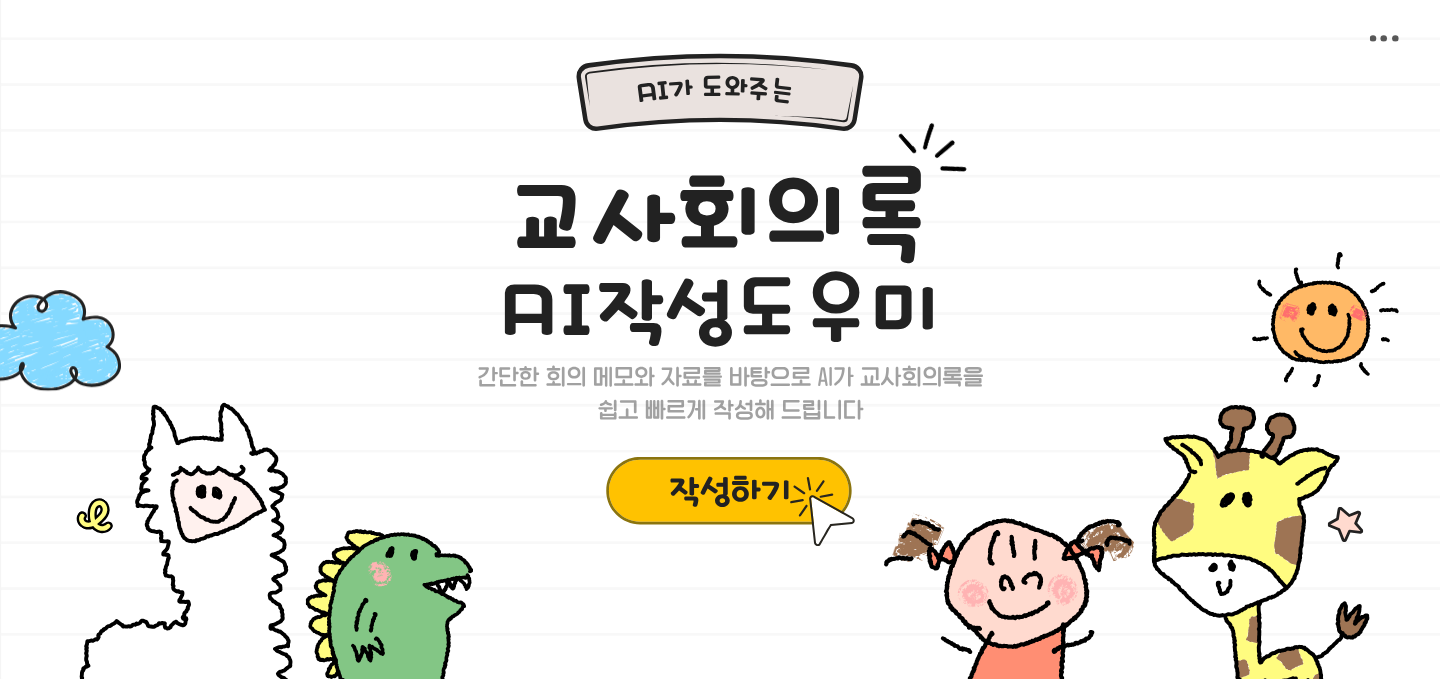
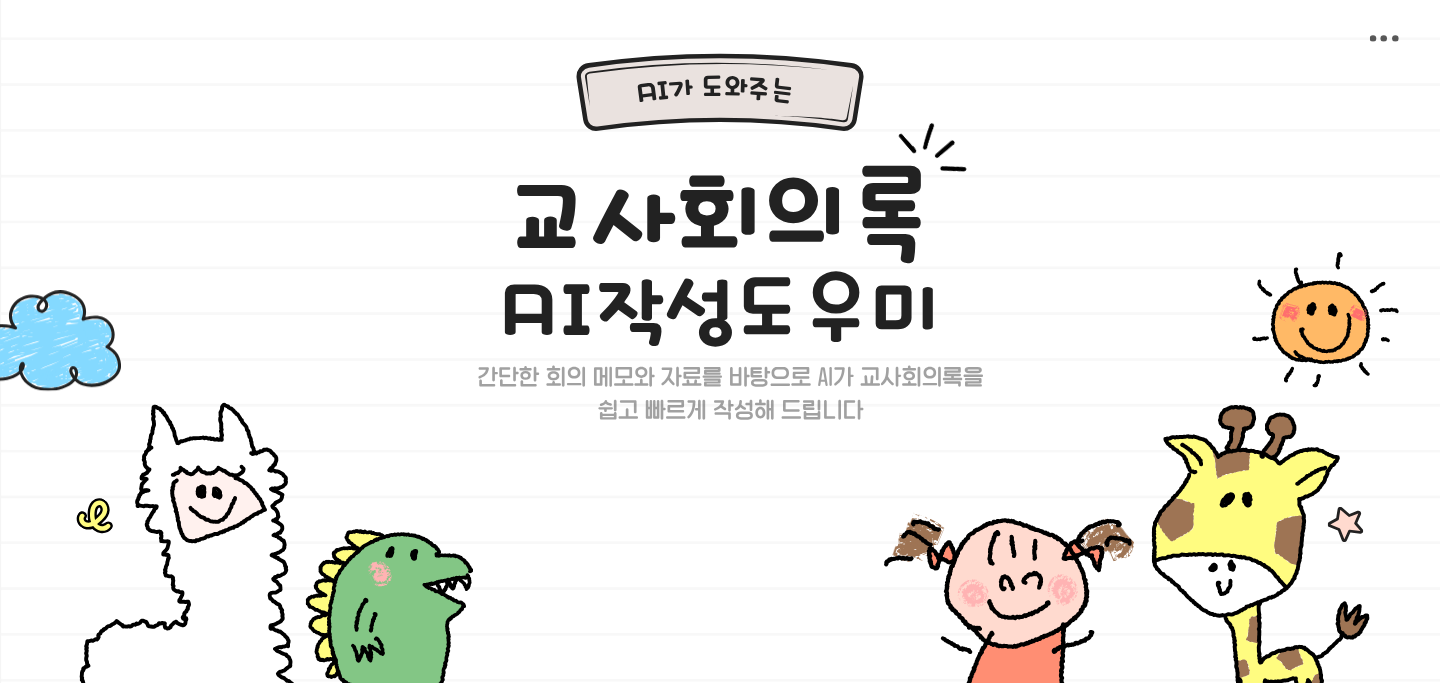
새 hero.png 적용 및 실제 교사회의록 작성하기 버튼 추가
- 버튼이 제거된 새 hero.png(1440×683) 원본 그대로 교체
- 설명문 아래 기존 버튼 자리(중앙, top 84%)에 실제 HTML pill 버튼 추가 — 코랄 배경, 흰색 굵은 글씨, /app 이동
- 화면에 버튼 1개만 표시, 기존 여백 없는 전체 폭 구조와 /app 기능 유지

diff --git a/src/Landing.css b/src/Landing.css
@@ -1,7 +1,7 @@
 /* ============================================================
    랜딩페이지 — hero.png 원본을 화면 끝까지 채우는 구조.
    바깥 여백 없음 / max-width 없음 / border-radius 없음.
-   이미지 속 노란 '작성하기' 버튼 위에 투명 클릭 영역만 오버레이.
+   설명문 아래 중앙에 실제 HTML 버튼 표시.
    ============================================================ */
 
 .landing-hero {
@@ -28,23 +28,69 @@
   -webkit-user-drag: none;
 }
 
-/* ---------- 투명 클릭 영역 ----------
-   hero.png (1440×679)에서 측정한 노란 pill 버튼 위치:
-   x 39.0–62.3% (중앙), y 79.4–98.2% — 이미지 크기에 %로 함께 이동 */
-.landing-cta-zone {
+/* ---------- 실제 CTA 버튼 ----------
+   hero.png (1440×683): 설명문 하단 81.4% 아래,
+   기존 버튼이 있던 중앙 자리(top 84%)에 배치.
+   pill, 코랄 배경, 흰색 굵은 글씨 */
+.landing-cta {
   position: absolute;
-  left: 39%;
-  top: 79.4%;
-  width: 23.3%;
-  height: 18.8%;
-  background: transparent;
-  border: none;
+  left: 50%;
+  top: 84%;
+  transform: translateX(-50%);
+  display: inline-flex;
+  align-items: center;
+  justify-content: center;
+  gap: 10px;
+  width: clamp(260px, 20vw, 300px);
+  height: 62px;
+  max-height: 9vh;
   border-radius: 9999px;
+  background: #f0655a;
+  color: #ffffff;
+  font-family: 'Pretendard', 'Apple SD Gothic Neo', 'Malgun Gothic', sans-serif;
+  font-weight: 800;
+  font-size: clamp(17px, 1.5vw, 22px);
+  letter-spacing: -0.01em;
+  text-decoration: none;
+  white-space: nowrap;
+  box-shadow: 0 3px 10px rgba(240, 101, 90, 0.28);
+  transition: background 0.15s ease, transform 0.15s ease;
   cursor: pointer;
   z-index: 10;
   -webkit-tap-highlight-color: transparent;
 }
-.landing-cta-zone:focus-visible {
+.landing-cta:hover {
+  background: #e5544a;
+  transform: translateX(-50%) translateY(-2px);
+}
+.landing-cta:active {
+  transform: translateX(-50%) translateY(0);
+}
+.landing-cta:focus-visible {
   outline: 3px solid rgba(240, 101, 90, 0.55);
   outline-offset: 2px;
+}
+.landing-cta-arrow {
+  width: 1.05em;
+  height: 1.05em;
+  flex-shrink: 0;
+}
+
+/* ---------- 반응형: 이미지 비율에 따라 버튼 위치 유지 ---------- */
+@media (max-width: 768px) {
+  .landing-cta {
+    width: 68vw;
+    max-width: 300px;
+    height: 58px;
+    font-size: 17px;
+    gap: 8px;
+  }
+}
+
+@media (max-width: 480px) {
+  .landing-cta {
+    width: 74vw;
+    font-size: 16px;
+    height: 54px;
+  }
 }

diff --git a/src/Landing.tsx b/src/Landing.tsx
@@ -1,9 +1,11 @@
+import { ArrowRight } from 'lucide-react';
+
 /**
  * 랜딩페이지 — hero.png 원본을 화면에 꽉 채워 표시하고,
- * 이미지 안의 노란색 '작성하기' 버튼 위에 투명 클릭 영역만 오버레이.
+ * 설명문 아래 중앙(기존 버튼 자리)에 실제 HTML 버튼을 표시.
  *
- * hero.png (1440×679)에서 측정한 버튼 pill 위치:
- * - x 39.0–62.3% (중앙), y 79.4–98.2%
+ * hero.png (1440×683): 설명문 하단 81.4%, 그 아래 중앙이 비어 있어
+ * 버튼을 top 84%에 배치.
  */
 export default function Landing() {
   return (
@@ -11,8 +13,10 @@ export default function Landing() {
       {/* hero.png 원본 비주얼 그대로 */}
       <img src="/hero.png" alt="AI가 도와주는 교사회의록 AI 작성도우미" className="landing-hero-img" draggable={false} />
 
-      {/* 이미지 속 '작성하기' 버튼과 정확히 겹친 투명 클릭 영역 (별도 버튼 표시 없음) */}
-      <a href="/app" className="landing-cta-zone" aria-label="교사회의록 작성하기" onClick={(e) => { e.preventDefault(); window.location.href = '/app'; }} />
+      {/* 실제 HTML 버튼 — 클릭 시 /app 이동 */}
+      <a href="/app" className="landing-cta" onClick={(e) => { e.preventDefault(); window.location.href = '/app'; }}>
+        교사회의록 작성하기 <ArrowRight className="landing-cta-arrow" strokeWidth={2.5} />
+      </a>
     </div>
   );
 }
